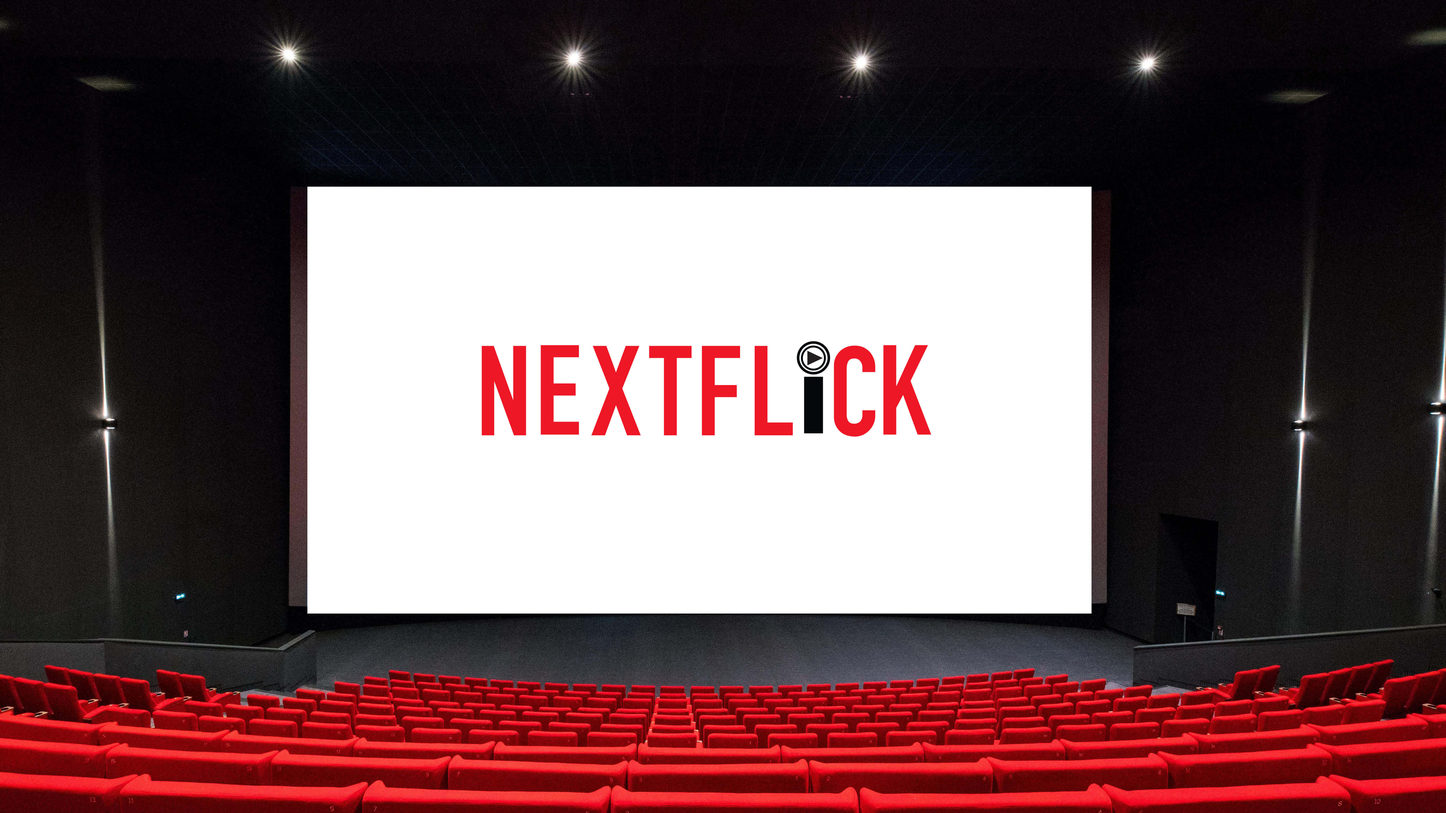
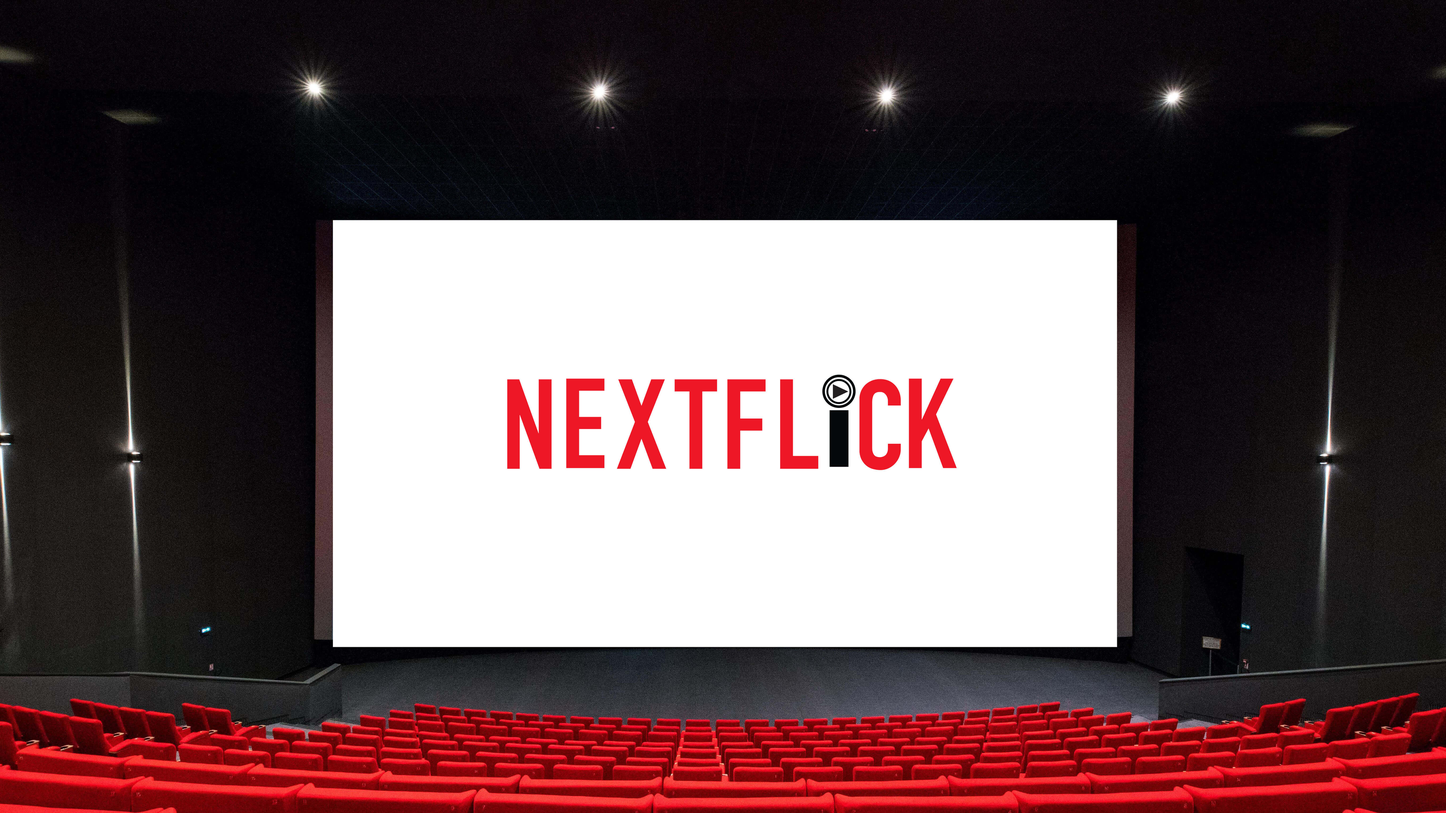
Fix home styles

diff --git a/src/components/Wall/Wall.css b/src/components/Wall/Wall.css
@@ -4,7 +4,7 @@
     background-image: url('./background.min.jpg');
     background-size: 150%;
     background-repeat: no-repeat;
-    background-position: center -35px;
+    background-position: center -40px;
 }
 
 .section {
@@ -24,4 +24,37 @@
     bottom: 0; 
     right: 0;
     width: 100%;
+    height: 100%;
+}
+
+@media screen and (min-width: 33em) {
+    .wall {
+        background-size: 160%;
+        background-position: center -80px;
+    }
+
+    .section {
+        padding: 2rem 2.5rem;
+    }
+}
+
+@media screen and (min-width: 48em) {
+    .wall {
+        background-position: center -130px;
+    }
+
+    .section {
+        padding: 4rem;
+    }
+}
+
+@media screen and (min-width: 62em) {
+    .wall {
+        background-size: 115%;
+        background-position: center -130px;
+    }
+
+    .section {
+        padding: 6rem 16rem;
+    }
 }
